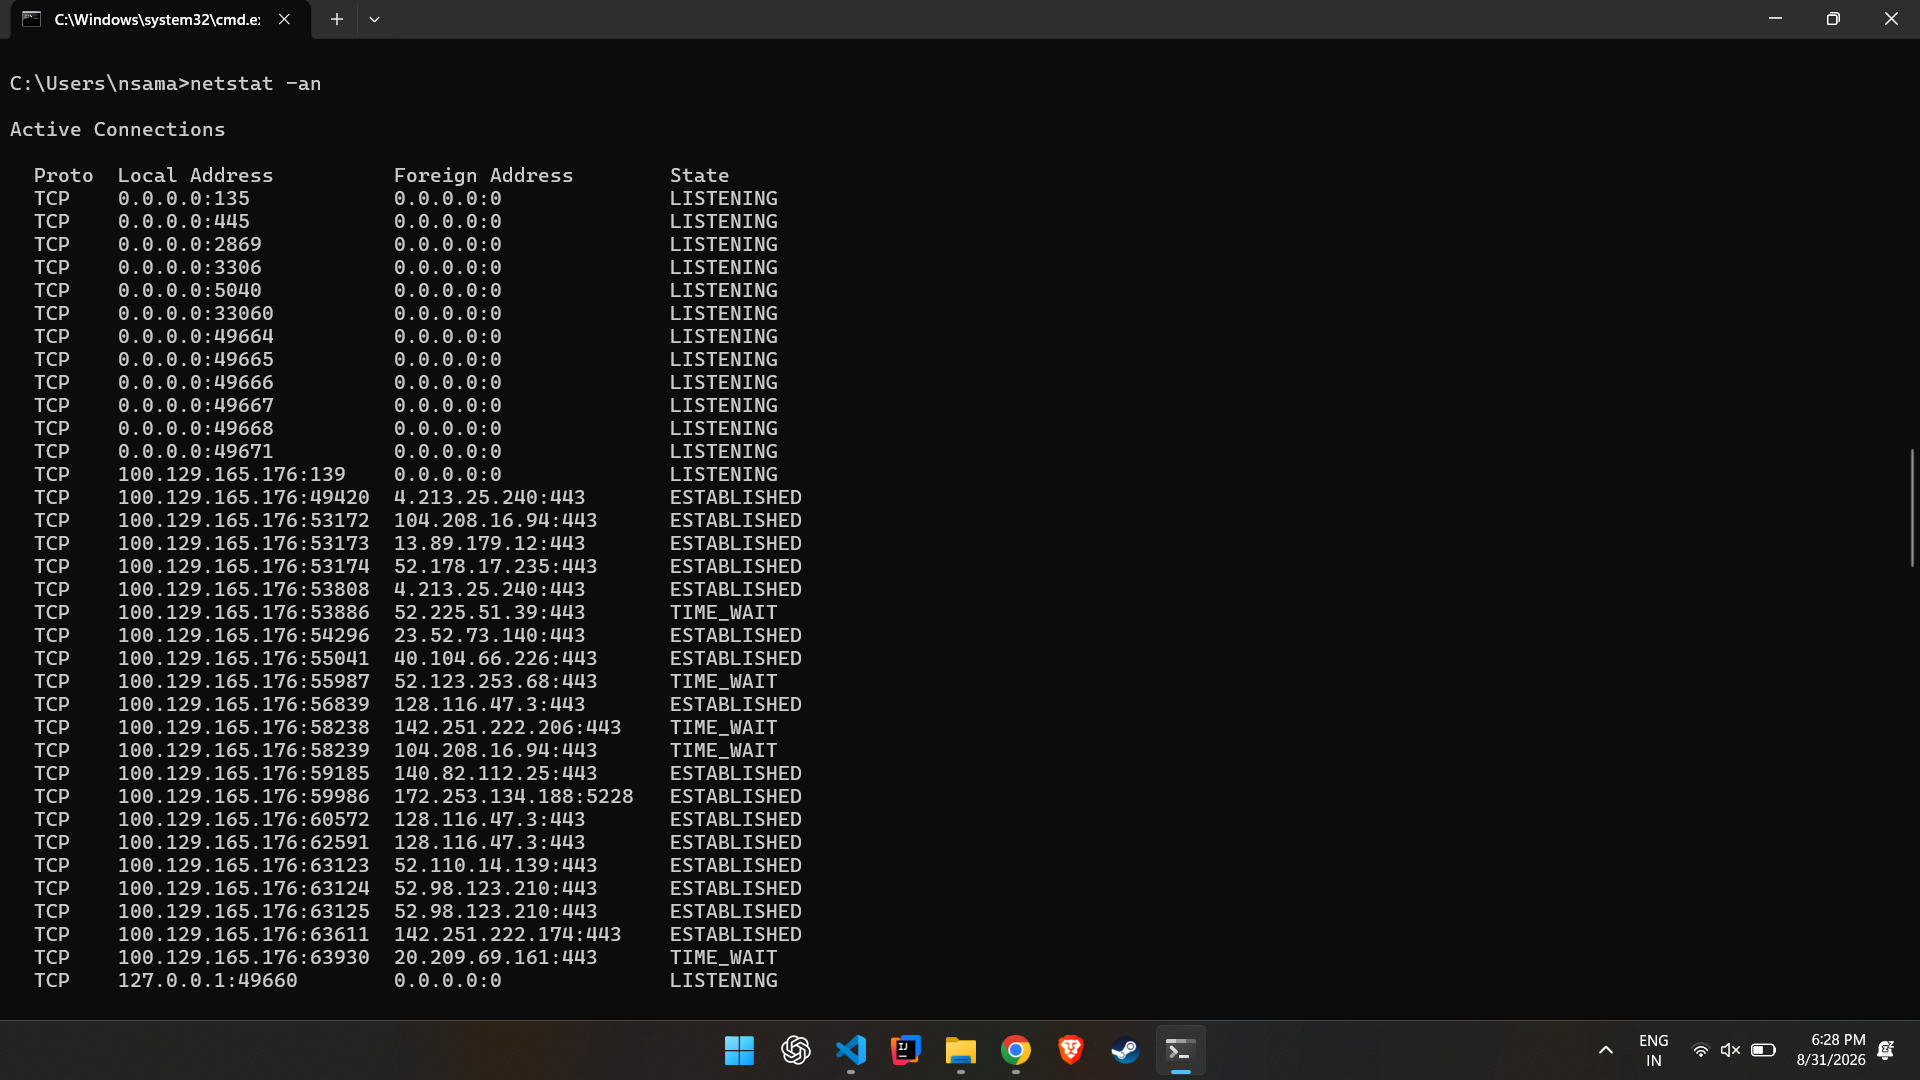
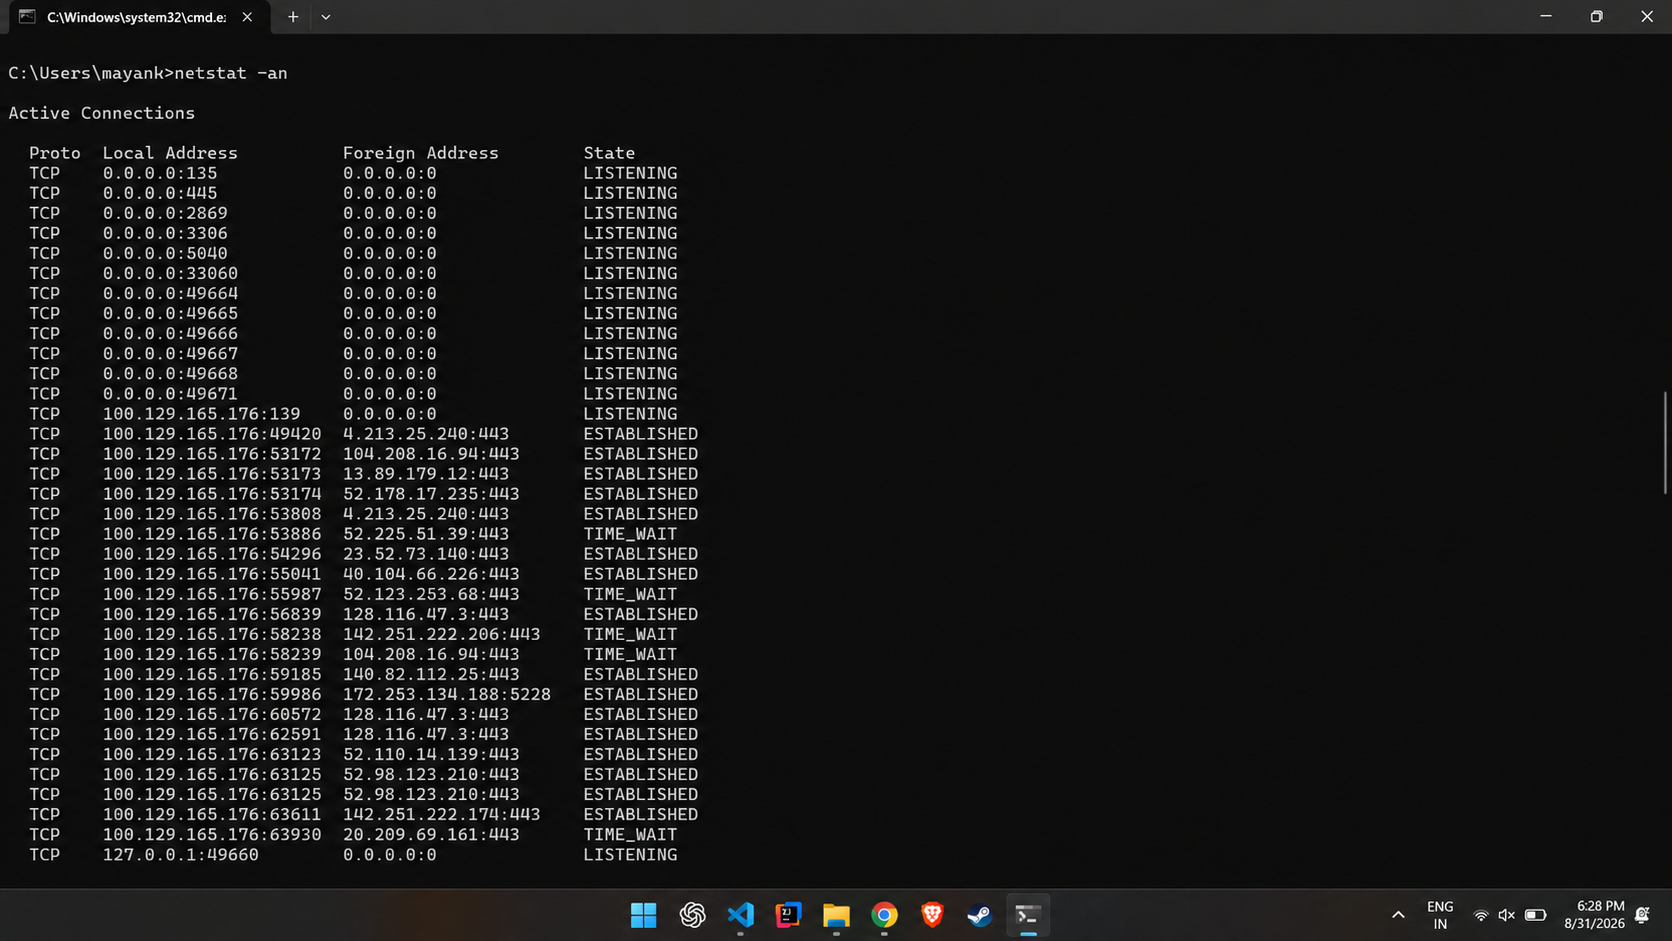
updated files

diff --git a/Devops-class-main/Networking Fundamentals/commands-output.md b/Devops-class-main/Networking Fundamentals/commands-output.md
@@ -51,7 +51,7 @@ Trace complete.
 ## My Checksum (CertUtil) Output
 
 ```
-C:\Users\nsama\testfile.txt:
+C:\Users\mayank\testfile.txt:
[1 lines of base64/hex data omitted]
 
 CertUtil: -hashfile command completed successfully.
